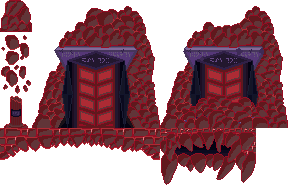
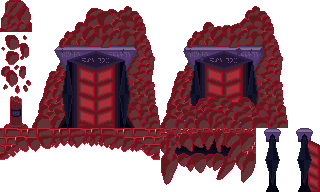
added doors

diff --git a/src/Scenes/Tutorial.cpp b/src/Scenes/Tutorial.cpp
@@ -8,8 +8,10 @@
 #include "../Data/Deathzone.h"
 #include "../Data/SaveInteractable.h"
 
+
 Tutorial::Tutorial(SceneEnums lastScene) : Scene(SceneEnums::Tutorial) {
     this->lastScene = lastScene;
+    sceneHasDoors = true;
     playerCharacter->SetPosition(playerStart);
     playerCharacter->active = true;
     playerCharacter->SetHealth(90);
@@ -58,14 +60,17 @@ Tutorial::Tutorial(SceneEnums lastScene) : Scene(SceneEnums::Tutorial) {
     statueTex = LoadTexture("assets/graphics/Sign.png");
     interactables.emplace_back(std::make_unique<DialogueObject>("assets/Dialogues/TutorialSign.json",tempVec,statueTex));
 
-    door1[0] = {58*32,76*32};
+    door0 = {67*32, 75*32};
+    doorCont.emplace_back(std::make_unique<Door>(door0));
+    door1[0] = { 58 * 32,76 * 32 };
     door1[1] = {58*32,75*32};
-
-    door2[0] = {49*32,76*32};
+    doorCont.emplace_back(std::make_unique<Door>(door1[1], false));
+    door2[0] = { 49 * 32,76 * 32 };
     door2[1] = {49*32,75*32};
-
-    door3[0] = {40*32,76*32};
+    doorCont.emplace_back(std::make_unique<Door>(door2[1], false));
+    door3[0] = { 40 * 32,76 * 32 };
     door3[1] = {40*32,75*32};
+    doorCont.emplace_back(std::make_unique<Door>(door3[1], false));
 
     textureForegroundException = LoadTexture("assets/graphics/backgrounds/Tutorial/crematorium_layer_01_bottom.png");
     textureForegroundMain = LoadTexture("assets/graphics/backgrounds/Tutorial/crematorium_layer_01_sides.png");
@@ -87,8 +92,6 @@ Tutorial::Tutorial(SceneEnums lastScene) : Scene(SceneEnums::Tutorial) {
     //checkpoints
     interactables.emplace_back(std::make_unique<SaveInteractable>(checkpointA));
 
-    topDoor = LoadTexture("assets/graphics/TopDoor.png");
-    downDoor = LoadTexture("assets/graphics/DownDoor.png");
 
     track = LoadMusicStream("assets/audio/tracks/Tutorial1.mp3");
     SetMusicVolume(track, soundManager->GetTrackVolume());
@@ -100,6 +103,9 @@ Tutorial::Tutorial(SceneEnums lastScene) : Scene(SceneEnums::Tutorial) {
 }
 
 void Tutorial::Update() {
+    for (const auto& door : doorCont) {
+        door->Update();
+    }
     if (preventHealthDecrease)UpdateMusicStream(track);
     else {
         if (!secondTrackPlaying) StopMusicStream(track), PlayMusicStream(track2), secondTrackPlaying = true;
@@ -141,6 +147,7 @@ void Tutorial::Update() {
             --attackTicker;
             if(attackCounter >= 3){
                 door1Active = false;
+                doorCont[1]->SetIsOpen(true);
                 tutorial1 = false;
                 tilemap->RemoveCollisionTile();
                 tilemap->RemoveCollisionTile();
@@ -157,6 +164,7 @@ void Tutorial::Update() {
     if(tutorial2){
         if(playerCharacter->GetHealth() >= 99){
             door2Active = false;
+            doorCont[2]->SetIsOpen(true);
             tutorial2 = false;
             tilemap->RemoveCollisionTile();
             tilemap->RemoveCollisionTile();
@@ -165,6 +173,7 @@ void Tutorial::Update() {
     if(tutorial3){
         if (IsKeyPressed(KEY_F) || IsGamepadButtonPressed(0, GAMEPAD_BUTTON_RIGHT_FACE_RIGHT)){
             door3Active = false;
+            doorCont[3]->SetIsOpen(true);
             tutorial3 = false;
             tilemap->RemoveCollisionTile();
             tilemap->RemoveCollisionTile();
@@ -180,17 +189,7 @@ void Tutorial::Update() {
 }
 
 void Tutorial::Draw() {
-    if(door1Active){
-        DrawTexture(topDoor,door1[0].x,door1[0].y-32,WHITE);
-        DrawTexture(downDoor,door1[0].x,door1[0].y,WHITE);
-    }if(door2Active){
-        DrawTexture(topDoor,door2[0].x,door2[0].y-32,WHITE);
-        DrawTexture(downDoor,door2[0].x,door2[0].y,WHITE);
-    }
-    if(door3Active){
-        DrawTexture(topDoor,door3[0].x,door3[0].y-32,WHITE);
-        DrawTexture(downDoor,door3[0].x,door3[0].y,WHITE);
-    }
+    
 
 
     for (const auto& spawn : spawner) {

diff --git a/src/Scenes/TraitorBossScene.cpp b/src/Scenes/TraitorBossScene.cpp
@@ -15,14 +15,17 @@ TraitorBossScene::TraitorBossScene(SceneEnums lastScene) : Scene(SceneEnums::Tra
     tilemap=std::make_unique<Tilemap>("assets/Tilemaps/Testmap/overworldTileset.json", "assets/Tilemaps/Verrater_Boss.json");
     playerCharacter->SetPosition(playerStart);
 
+    sceneHasDoors = true;
     playerCharacter->SetHealth(100);
     playerCharacter->active=true;
     
     door1[0] = { 49 * 32, 87 * 32 };
     door1[1] = { 49 * 32, 88 * 32 };
+    doorCont.emplace_back(std::make_unique<Door>(door1[0]));
 
     door2[0] = { 68 * 32, 87 * 32 };
     door2[1] = { 68 * 32, 88 * 32 };
+    doorCont.emplace_back(std::make_unique<Door>(door2[0]));
 
     Vector2 tempVec = {93 * 32, 64 * 32};
     interactables.emplace_back(std::make_unique<SceneChangerObject>(tempVec, SceneEnums::NeutralArea, sceneName));
@@ -59,14 +62,15 @@ TraitorBossScene::TraitorBossScene(SceneEnums lastScene) : Scene(SceneEnums::Tra
     interactables.emplace_back(std::make_unique<SaveInteractable>(checkpointA));
     interactables.emplace_back(std::make_unique<SaveInteractable>(checkpointB));
 
-    topDoor = LoadTexture("assets/graphics/TopDoor.png");
-    downDoor = LoadTexture("assets/graphics/DownDoor.png");
 
     track = LoadMusicStream("assets/audio/tracks/Traitor_Track.mp3");
     SetMusicVolume(track, soundManager->GetTrackVolume());
 }
 
 void TraitorBossScene::Update() {
+    for (const auto& door : doorCont) {
+        door->Update();
+    }
     Scene::Update();
     if (bossActivated && !bossDefeated)CheckBossDeath();
 
@@ -74,6 +78,8 @@ void TraitorBossScene::Update() {
         sceneManager->ScreenShake(20);
         soundManager->PlaySfx(SFX::DOORS);
         doorActive = true;
+        doorCont[0]->SetIsOpen(false);
+        doorCont[1]->SetIsOpen(false);
 		tilemap->AddCollisionTile({ door1[0] });
 		tilemap->AddCollisionTile({ door1[1] });
 		tilemap->AddCollisionTile({ door2[0] });
@@ -105,15 +111,6 @@ void TraitorBossScene::Update() {
 void TraitorBossScene::Draw() {
     Scene::Draw();
 
-    if (doorActive && !bossDefeated) {
-		DrawRectangle(door1[0].x, door1[0].y, 32, 64, RED);
-        DrawRectangle(door2[0].x, door2[0].y, 32, 64, RED);
-
-		DrawTextureV(topDoor, door1[0], WHITE);
-		DrawTextureV(downDoor, door1[1], WHITE);
-		DrawTextureV(topDoor, door2[0], WHITE);
-		DrawTextureV(downDoor, door2[1], WHITE);
-    }
     
     for (const auto& spawn : spawner) {
         spawn->Draw();
@@ -140,6 +137,8 @@ void TraitorBossScene::CheckBossDeath()
     tilemap->RemoveCollisionTile();
     tilemap->RemoveCollisionTile();
     tilemap->RemoveCollisionTile();
+    doorCont[0]->SetIsOpen(true);
+    doorCont[1]->SetIsOpen(true);
     bossDefeated = true;
     hud->IsBossFightActive(false);
     StopMusicStream(track);
@@ -152,8 +151,6 @@ TraitorBossScene::~TraitorBossScene() {
     UnloadTexture(textureBackgroundMain);
     UnloadTexture(textureForegroundException);
     UnloadTexture(textureForegroundMain);
-    UnloadTexture(downDoor);
-    UnloadTexture(topDoor);
 
     UnloadMusicStream(track);
 }

diff --git a/src/Core/Scene.h b/src/Core/Scene.h
@@ -6,6 +6,7 @@
 #include "Tilemap.h"
 #include "Enemy.h"
 #include "Interactable.h"
+#include "../Data/Door.h"
 
 
 class Scene {
@@ -18,6 +19,7 @@ public:
     virtual void Draw();
     void DrawBackground() const;
     void DrawForeground() const;
+    void DrawDoors() const;
     virtual ~Scene() = default;
 
     [[nodiscard]] DialogueManager &GetDialogueManager();
@@ -79,7 +81,8 @@ protected:
     Vector2 effectPos2Start{};
     Vector2 effectDirection{-5.0f, 3.0f};
     bool sceneEffectActivated{ false };
-
+    bool sceneHasDoors{ false };
+    std::vector<std::unique_ptr<Door>> doorCont;
 
     //screen shake variables
     bool screenShakeActivated{ false };

diff --git a/src/Scenes/Tutorial.h b/src/Scenes/Tutorial.h
@@ -2,6 +2,7 @@
 #include "../Core/Scene.h"
 #include "../Data/Spawner.h"
 #include "../Data/Speechbubble.h"
+#include "../Data/Door.h"
 
 class Tutorial : public Scene {
 public:
@@ -16,8 +17,6 @@ public:
 private:
     bool preventHealthDecrease = true;
 
-    Texture2D topDoor;
-    Texture2D downDoor;
 
     Texture2D npc1Tex;
     Texture2D npc2Tex;
@@ -33,6 +32,8 @@ private:
 
     static constexpr Rectangle healthDecreasingCollider = {40*32,45*32,128,128}; // If player collides he will start losing health
 
+
+    Vector2 door0;
     Vector2 door1[2];
     bool door1Active = true;
     bool tutorial1 = false;

diff --git a/src/Data/Door.cpp b/src/Data/Door.cpp
@@ -1,0 +1,29 @@
+#include "Door.h"
+
+Door::Door(Vector2 position, bool isOpen) : Object(ObjectTypes::other)
+{
+	this->isOpen = isOpen;
+	this->position = position;
+	this->texture = LoadTexture("assets/graphics/OtherObjects/environment.png");
+}
+
+void Door::Update()
+{
+	if (isOpen)  activeFrame.x = 9 * 32;
+	else activeFrame.x = 8 * 32;
+}
+
+void Door::Draw()
+{
+	DrawTextureRec(texture, activeFrame, position, WHITE);
+}
+
+void Door::SetIsOpen(bool isOpen)
+{
+	this->isOpen = isOpen;
+}
+
+Door::~Door()
+{
+	UnloadTexture(texture);
+}

diff --git a/src/Data/Door.h b/src/Data/Door.h
@@ -1,0 +1,17 @@
+#pragma once
+
+#include "../Core/Interactable.h"
+#include <raylib.h>
+
+class Door : public Object {
+public:
+	Door(Vector2 position, bool isOpen = true);
+	void Update() override;
+	void Draw() override;
+	void SetIsOpen(bool isOpen);
+	~Door();
+private:
+	bool isOpen;
+	Texture2D texture;
+	Rectangle activeFrame = { 8 * 32, 4 * 32, 32, 2 * 32 };
+};

diff --git a/src/Core/Scene.cpp b/src/Core/Scene.cpp
@@ -158,6 +158,16 @@ void Scene::DrawForeground() const
     DrawRectangle(-100, -100, 10000, 10000, FADEOUT);
 }
 
+void Scene::DrawDoors() const
+{
+    if (sceneHasDoors) {
+		for (const auto& door : doorCont) {
+			door->Draw();
+		}
+    }
+    
+}
+
 void Scene::AddEnemy(std::unique_ptr<Enemy> enemy) {
     enemies.emplace_back(std::move(enemy));
 }

diff --git a/src/Global.h b/src/Global.h
@@ -11,7 +11,7 @@ extern std::shared_ptr<SoundManager> soundManager;
 constexpr bool DEBUG_BUILD = true;
 constexpr bool DEBUG_PLAYER_STATES = false;
 constexpr bool DEBUG_ENEMY_STATES = false;
-constexpr bool DEBUG_PLAYER_POSITION = false;
+constexpr bool DEBUG_PLAYER_POSITION = true;
 
 /*
  * Example Usage, also see main.cpp:

diff --git a/src/main.cpp b/src/main.cpp
@@ -58,7 +58,7 @@ if  constexpr(DEBUG_BUILD){
 
 
 
-	sceneManager = std::make_shared<SceneManager>(std::make_unique<MinerBossScene>(SceneEnums::Default));
+	sceneManager = std::make_shared<SceneManager>(std::make_unique<TraitorBossScene>(SceneEnums::Default));
 
 
 

diff --git a/src/Core/SceneManager.cpp b/src/Core/SceneManager.cpp
@@ -229,6 +229,7 @@ void SceneManager::Draw() {
     for (const auto& interactable : activeScene->GetInteractables()) {
         interactable->Draw();
     }
+    activeScene->DrawDoors();
     activeScene->DrawForeground();
     EndMode2D();
 

diff --git a/src/Scenes/TraitorBossScene.h b/src/Scenes/TraitorBossScene.h
@@ -32,9 +32,6 @@ private:
     const Vector2 checkpointA{42*32, 88*32};
     const Vector2 checkpointB{75*32, 88*32};
 
-    Texture2D topDoor;
-    Texture2D downDoor;
-
     Music track;
     bool musicStarted{ false };
 };
